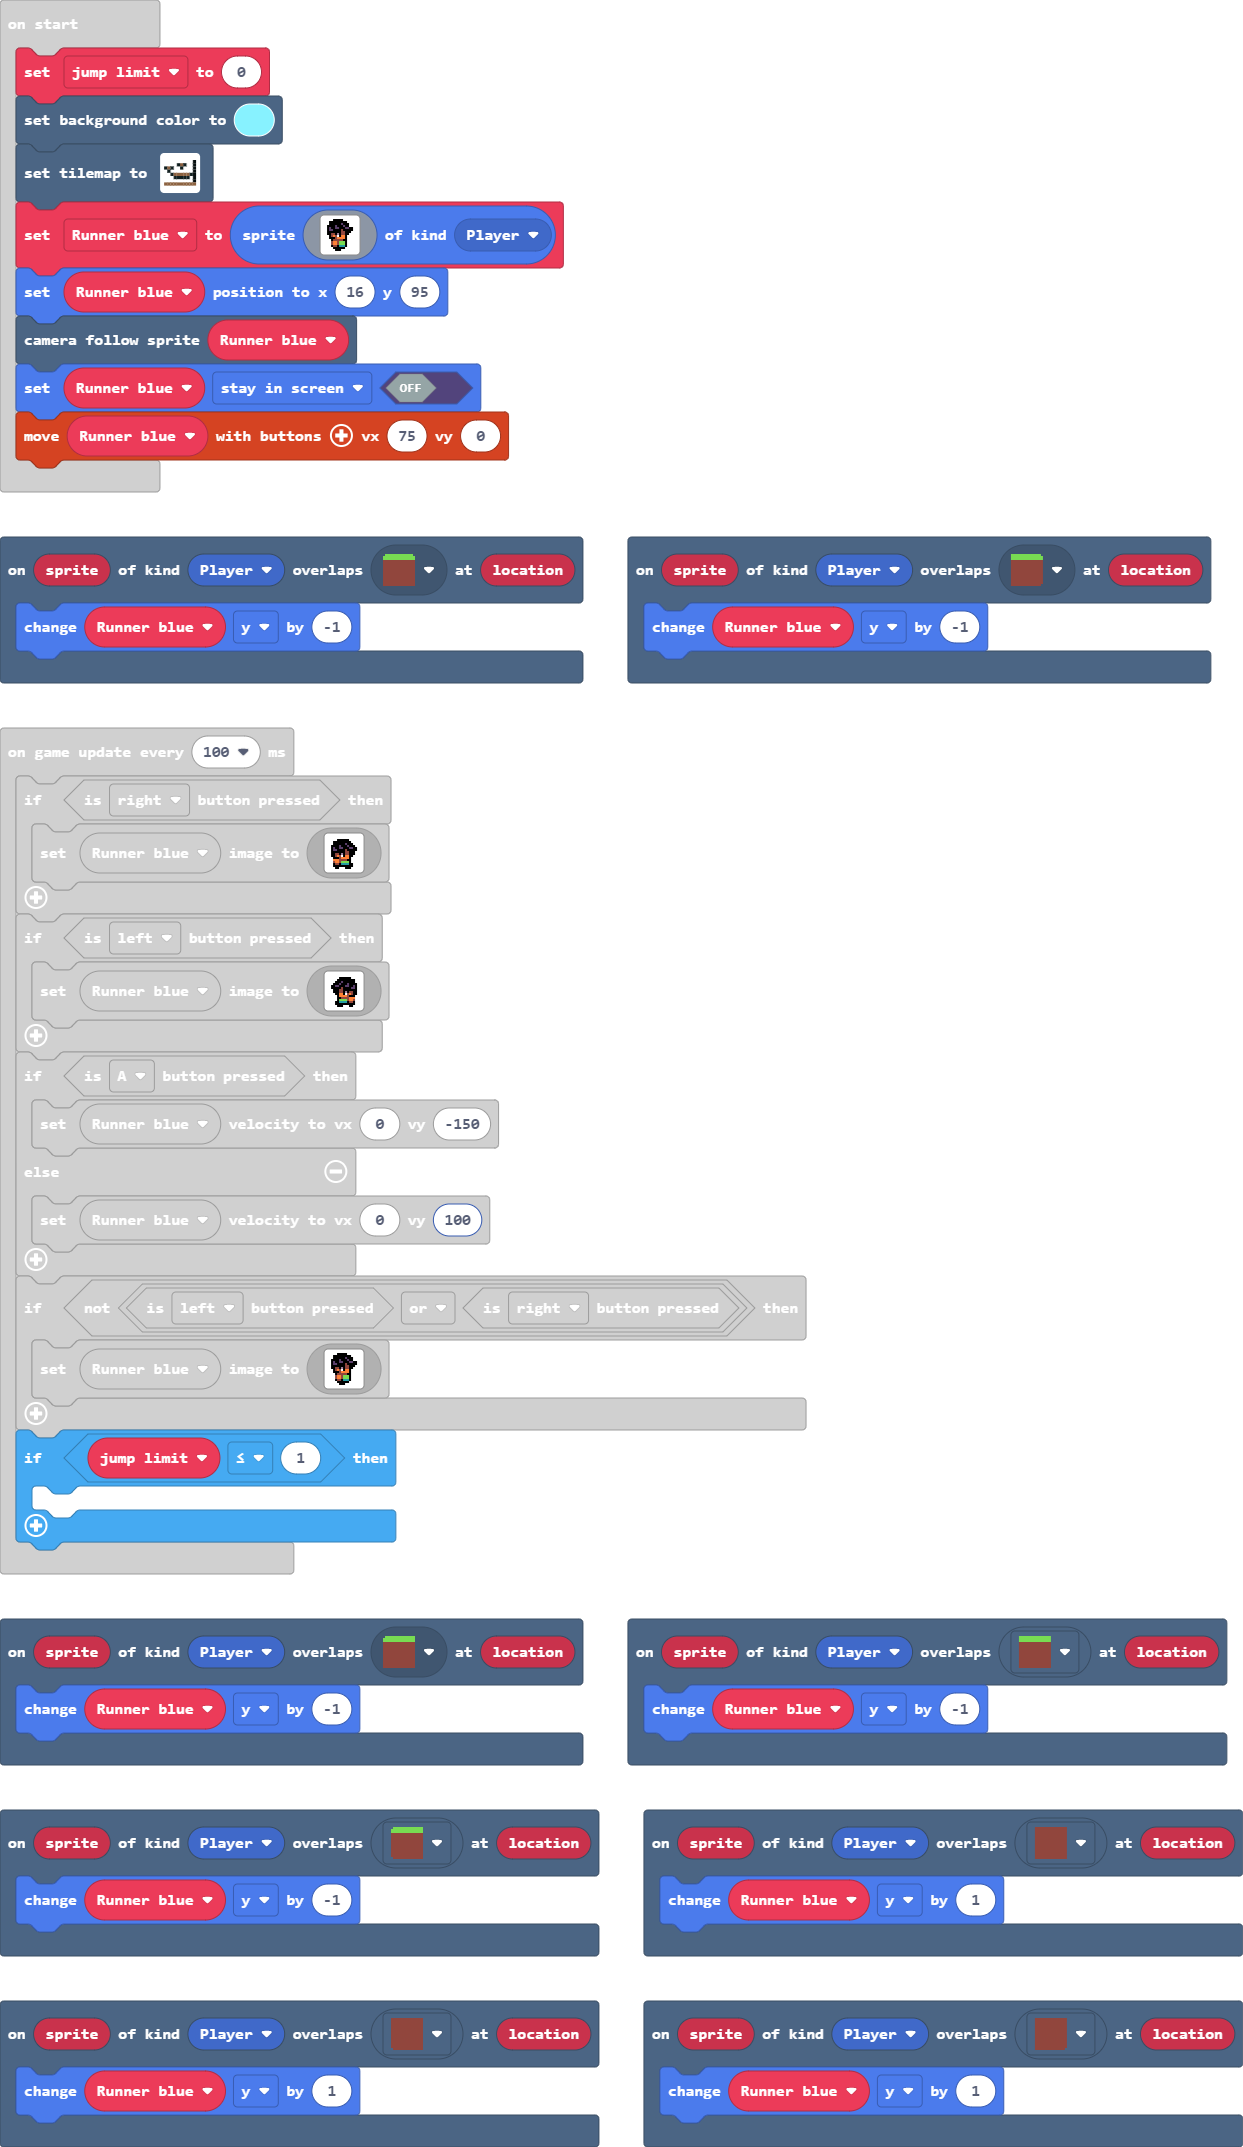
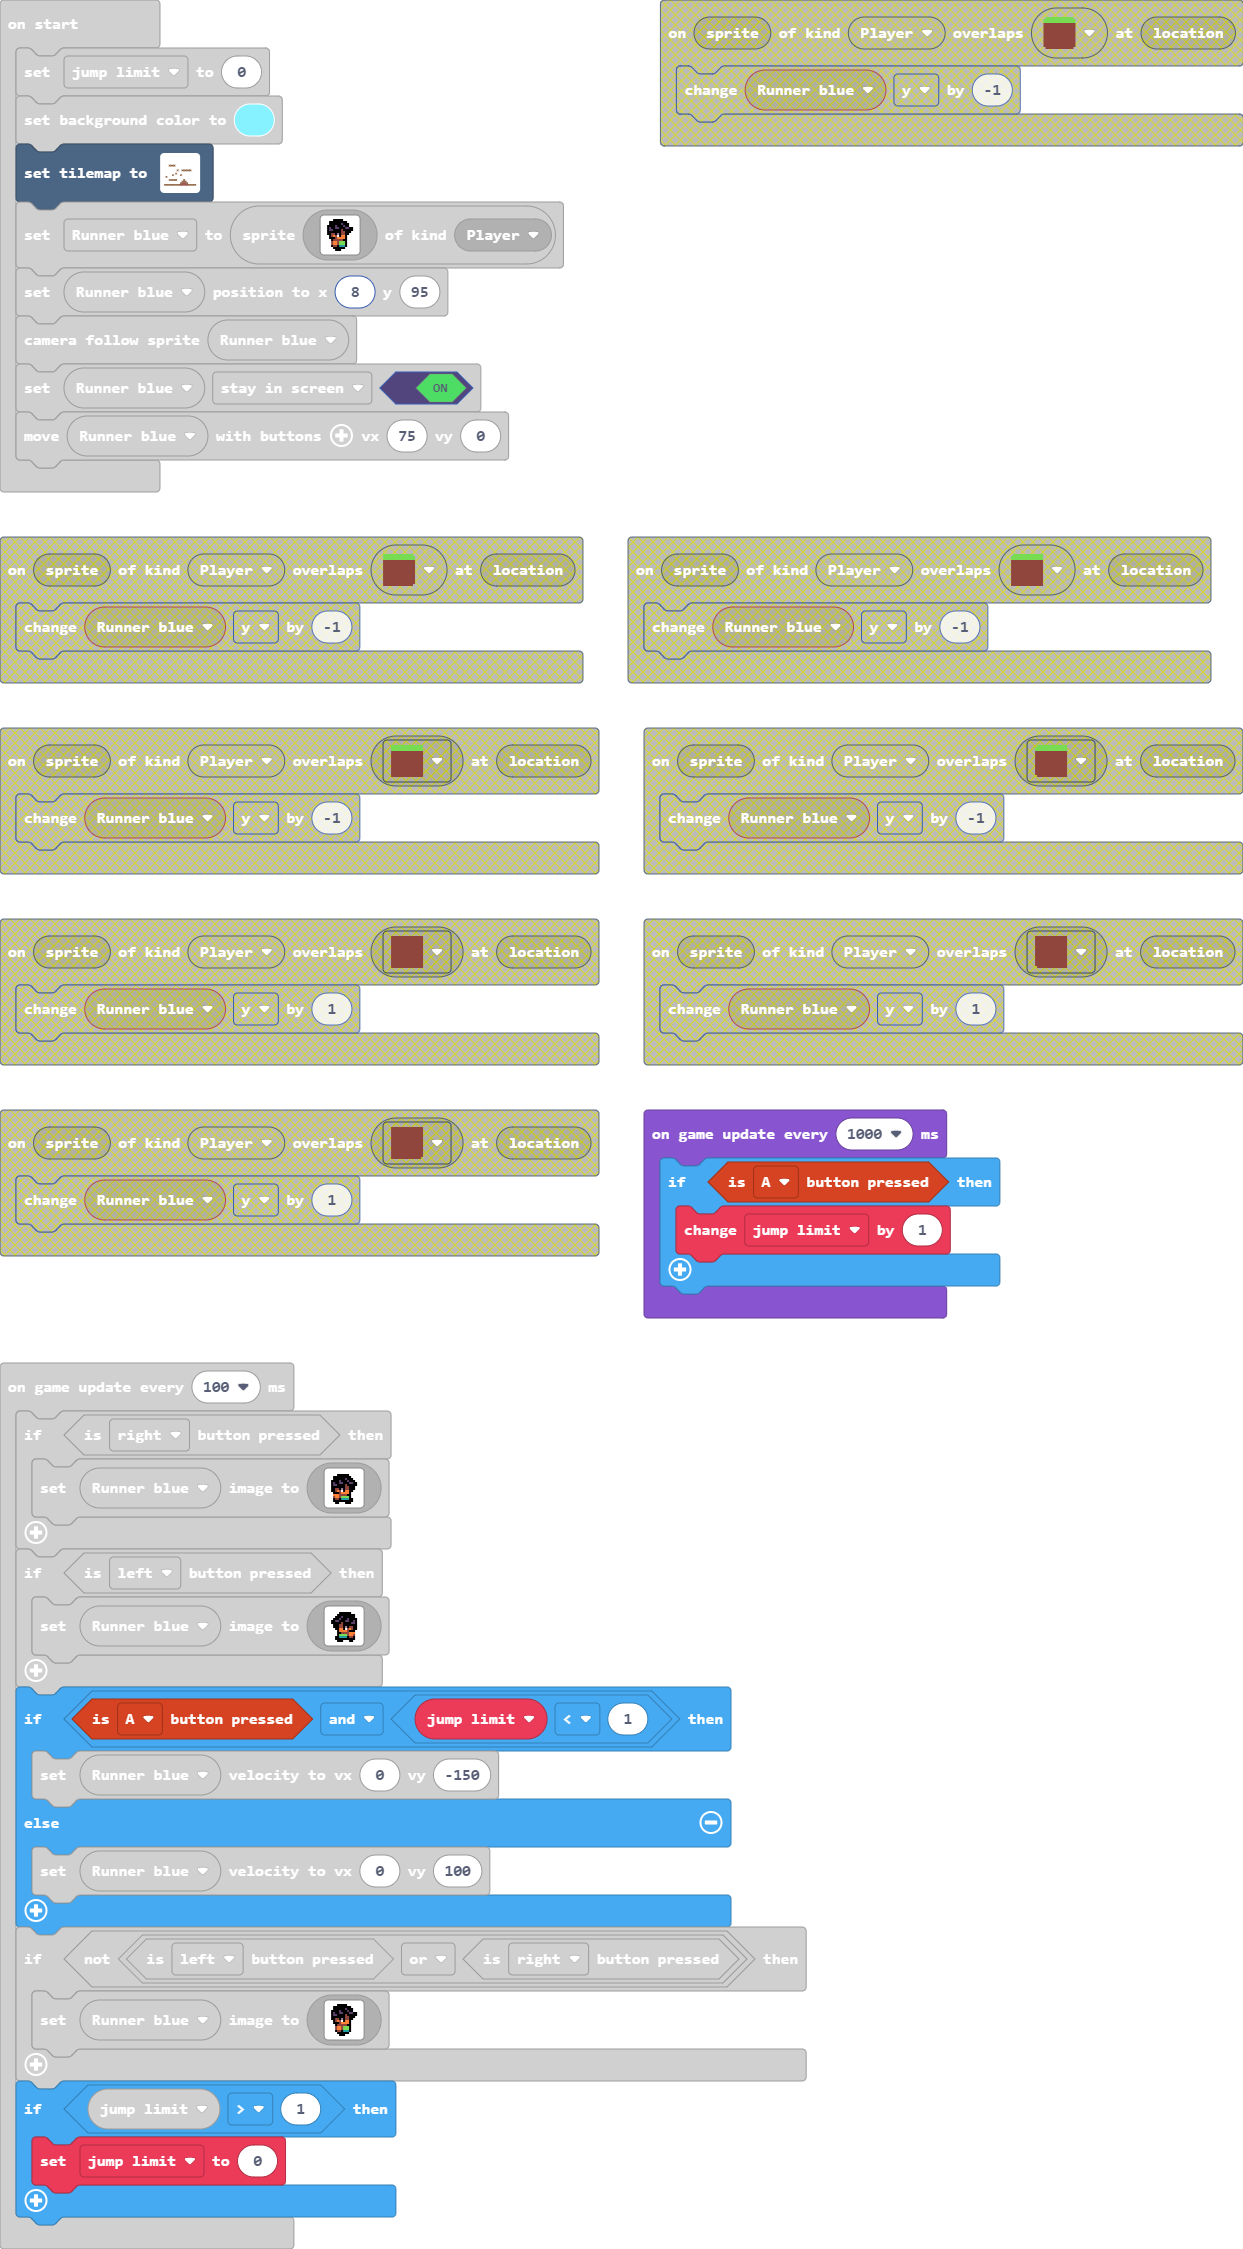
Update main.blocks, main.ts, tilemap.g.jres, tilemap.g.ts

diff --git a/main.ts b/main.ts
@@ -3,44 +3,27 @@ enum ActionKind {
     Idle,
     Jumping
 }
-scene.onOverlapTile(SpriteKind.Player, myTiles.tile2, function (sprite, location) {
-    Runner_blue.y += -1
-})
-scene.onOverlapTile(SpriteKind.Player, myTiles.tile3, function (sprite, location) {
-    Runner_blue.y += -1
-})
-scene.onOverlapTile(SpriteKind.Player, myTiles.tile4, function (sprite, location) {
-    Runner_blue.y += -1
-})
-scene.onOverlapTile(SpriteKind.Player, myTiles.tile8, function (sprite, location) {
-    Runner_blue.y += -1
-})
-scene.onOverlapTile(SpriteKind.Player, myTiles.tile7, function (sprite, location) {
-    Runner_blue.y += 1
-})
-scene.onOverlapTile(SpriteKind.Player, myTiles.tile6, function (sprite, location) {
-    Runner_blue.y += 1
-})
-scene.onOverlapTile(SpriteKind.Player, myTiles.tile1, function (sprite, location) {
-    Runner_blue.y += -1
-})
-scene.onOverlapTile(SpriteKind.Player, myTiles.tile5, function (sprite, location) {
-    Runner_blue.y += 1
-})
-let Runner_blue: Sprite = null
 let jump_limit = 0
 scene.setBackgroundColor(9)
[1 lines of base64/hex data omitted]
-    . . . . . . . . . . 
-    . . . . . . . . . . 
-    . . . . . . . . . . 
-    . . . . . . . . . . 
-    . . . . . . . . . . 
-    . . . . . . . . . . 
-    . . . . . . . . . . 
-    . . . . . . . . . . 
-    `, [myTiles.transparency16,myTiles.tile4,myTiles.tile1,myTiles.tile2,myTiles.tile8,myTiles.tile10,myTiles.tile12,myTiles.tile13,myTiles.tile14], TileScale.Sixteen))
-Runner_blue = sprites.create(img`
+tiles.setTilemap(tiles.createTilemap(hex`140010000000000000000000000000000000000000000000000000000000000000000000000000000000000000000000000000000000000000000000000000000000000401010300000000000000000000000000000000000000000000000000000000000000000000000000000000000000000000000000000000000000000000000000020000040101010103000000000000000000000000000000000000000000000000000000000000020000000000000000000000000000000000020000000002000000000000000000000200000000000000000000000000000000000000000000000000000000000000000000000000000000000401010103000000000800000000000000000000000000000000000005060700000000000000000000000000000000050606060700000000000101010101010101010106060606060101010101`, img`
+    . . . . . . . . . . . . . . . . . . . . 
+    . . . . . . . . . . . . . . . . . . . . 
+    . . . . . . . . . . . . . . . . . . . . 
+    . . . 2 2 2 2 . . . . . . . . . . . . . 
+    . . . . . . . . . . . . . . . . . . . . 
+    . . . . . . . . . . . . . . . . . . . . 
+    . . . . . . . . 2 . . 2 2 2 2 2 2 . . . 
+    . . . . . . . . . . . . . . . . . . . . 
+    . . . . . . . 2 . . . . . . . . . . . . 
+    . . . . . 2 . . . . 2 . . . . . . . . . 
+    . 2 . . . . . . . . . . . . . . . . . . 
+    . . . . . . . . . . . . . . . . . . . . 
+    . . . 2 2 2 2 2 . . . . 2 . . . . . . . 
+    . . . . . . . . . . . 2 2 2 . . . . . . 
+    . . . . . . . . . . 2 2 2 2 2 . . . . . 
+    2 2 2 2 2 2 2 2 2 2 2 2 2 2 2 2 2 2 2 2 
+    `, [myTiles.transparency16,myTiles.tile4,myTiles.tile1,myTiles.tile2,myTiles.tile8,myTiles.tile3,myTiles.tile6,myTiles.tile9,myTiles.tile15], TileScale.Sixteen))
+let Runner_blue = sprites.create(img`
     . . . f f f f f . . . . . 
     . f f f f f f f f f . . . 
     . f f f f f f c f f f . . 
@@ -58,10 +41,15 @@ Runner_blue = sprites.create(img`
     . . . f f f f f f . . . . 
     . . . . f f f . . . . . . 
     `, SpriteKind.Player)
-Runner_blue.setPosition(16, 95)
+Runner_blue.setPosition(8, 95)
 scene.cameraFollowSprite(Runner_blue)
-Runner_blue.setFlag(SpriteFlag.StayInScreen, false)
+Runner_blue.setFlag(SpriteFlag.StayInScreen, true)
 controller.moveSprite(Runner_blue, 75, 0)
+game.onUpdateInterval(1000, function () {
+    if (controller.A.isPressed()) {
+        jump_limit += 1
+    }
+})
 game.onUpdateInterval(100, function () {
     if (controller.right.isPressed()) {
         Runner_blue.setImage(img`
@@ -103,7 +91,7 @@ game.onUpdateInterval(100, function () {
             . . . f f f . . . f f . . 
             `)
     }
-    if (controller.A.isPressed()) {
+    if (controller.A.isPressed() && jump_limit < 1) {
         Runner_blue.setVelocity(0, -150)
     } else {
         Runner_blue.setVelocity(0, 100)
@@ -128,7 +116,7 @@ game.onUpdateInterval(100, function () {
             . . . . f f f . . . . . . 
             `)
     }
-    if (jump_limit <= 1) {
-    	
+    if (jump_limit > 1) {
+        jump_limit = 0
     }
 })

diff --git a/tilemap.g.ts b/tilemap.g.ts
@@ -30,6 +30,8 @@ namespace myTiles {
     export const tile13 = image.ofBuffer(hex``);
     //% fixedInstance jres blockIdentity=images._tile
     export const tile14 = image.ofBuffer(hex``);
+    //% fixedInstance jres blockIdentity=images._tile
+    export const tile15 = image.ofBuffer(hex``);
 
 }
 // Auto-generated code. Do not edit.
